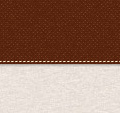
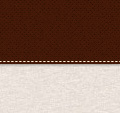
story

Changed region(s): [[0.0, 0.0, 1.0, 0.5841]]

diff --git a/app/assets/stylesheets/global.sass b/app/assets/stylesheets/global.sass
@@ -232,7 +232,7 @@ body
   background-image: url(image_path('pattern2.jpg'))
 
 #story_3
-  background-image: url(image_path('pattern.jpg'))
+  background-image: url(image_path('pattern_.jpg'))
 
 
 
